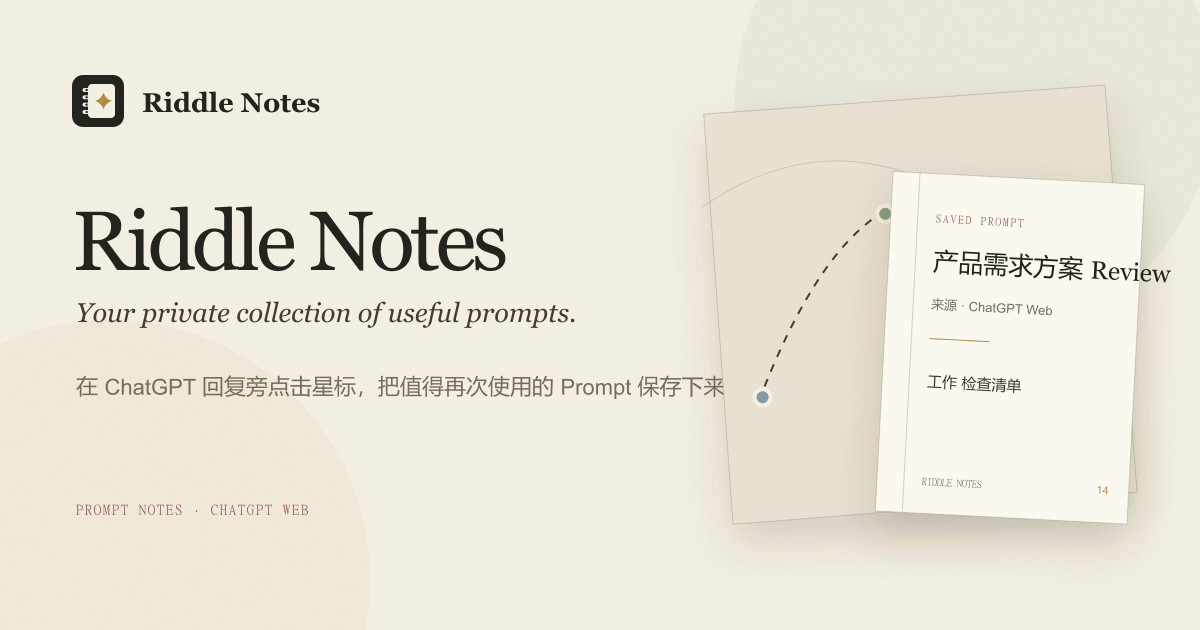
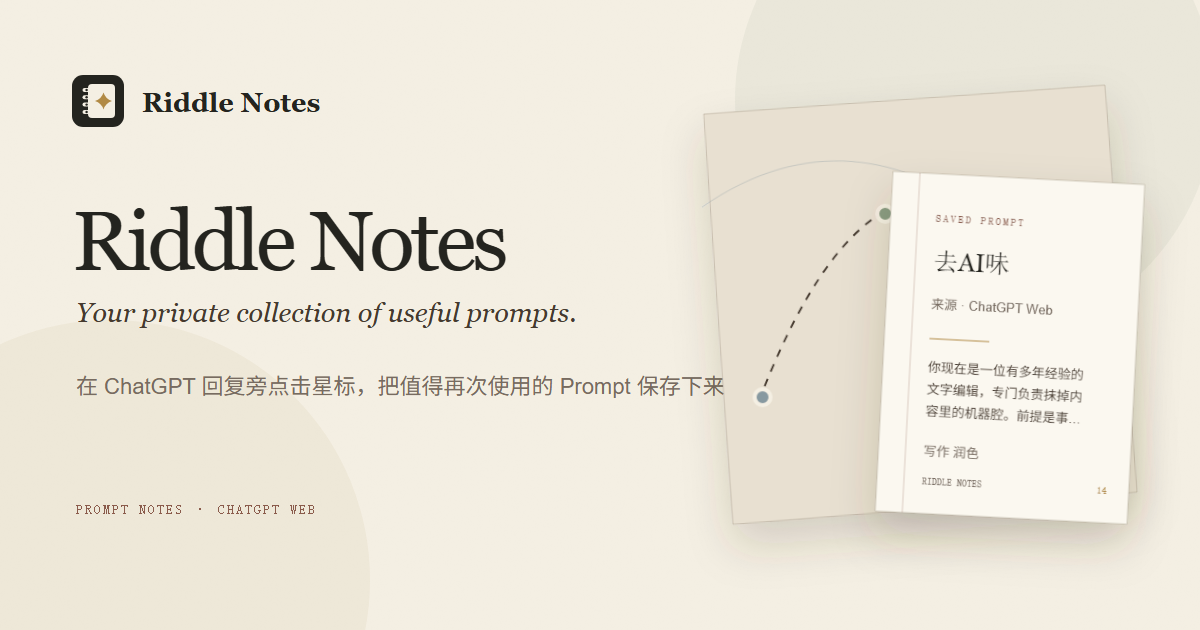
feat(website): use the demo prompt in the hero and the share image
Replace the product-review demo text with the "remove AI flavor"
prompt. Text that does not fit is cut with an ellipsis (line-clamp),
the same way the extension cuts titles and descriptions when it saves
a prompt.

- hero: the reply card shows 2 lines and the note shows 6 lines, so the
  ink path still starts at the star
- og-image: redraw the saved-prompt card with the new text and render
  the 1200x630 PNG again

diff --git a/website/src/components/Hero.tsx b/website/src/components/Hero.tsx
@@ -35,7 +35,12 @@ const STAR_PATH = 'M12 2l3.09 6.26L22 9.27l-5 4.87 1.18 6.88L12 17.77l-6.18 3.25
 /** 墨迹路径:从回复卡的星标出发,经过地图,从手札左缘下方进入手札 */
 const INK_PATH = 'M154 284C154 346 226 382 292 368S352 340 392 330'
 
-const SAVED_EXCERPT = '检查目标用户、核心场景、范围边界、依赖风险和验收标准，并给出修改建议。'
+/**
+ * 示意图里演示用的 Prompt 原文。放不下的部分由 hero.css 的 line-clamp 用省略号截断,
+ * 与扩展真实收藏时"标题取前 50 字、描述取前 200 字,多出来的用 ... 代替"的行为一致。
+ */
+const DEMO_PROMPT =
+  '你现在是一位有多年经验的文字编辑，专门负责抹掉内容里的机器腔。前提是事实、观点和关键信息一个都不许改，在此基础上把整篇重新捋一遍。 删掉那种开头很正确、看完啥也没说的空话，砍掉硬凑的连接词、排到一半以上的排比，还有结尾硬拔的情绪升华和教科书式的套话。 句子该长就长、该短就短，把停顿、顺序和用词的疏密重新排一下；该补的细节补上，转折自然一点，立场敢说清楚一点。写得不那么完美也没关系，别端着。不准硬塞网络热词，不准假装口语化，不准编我没说过的个人经历，不准加原文没有的事实，更不准换成另一套模板腔。'
 
 function StarIcon({ className }: { className?: string }) {
   return (
@@ -133,7 +138,7 @@ export default function Hero({ version }: HeroProps) {
               ))}
 
               <div className="hero-reply" aria-hidden="true">
-                <p>{SAVED_EXCERPT}</p>
+                <p>{DEMO_PROMPT}</p>
                 <div className="hero-reply__tools">
                   <span className="hero-reply__tool"><Copy size={15} /></span>
                   <span className="hero-reply__tool"><ThumbsUp size={15} /></span>
@@ -162,13 +167,13 @@ export default function Hero({ version }: HeroProps) {
                       <span>NOTE 014</span>
                       <StarIcon className="hero-note__star" />
                     </div>
-                    <p className="hero-note__title" style={{ '--i': 1 } as CSSProperties}>产品需求方案 Review</p>
+                    <p className="hero-note__title" style={{ '--i': 1 } as CSSProperties}>去AI味</p>
                     <p className="hero-note__source" style={{ '--i': 2 } as CSSProperties}>ChatGPT · chatgpt.com</p>
                     <i className="hero-note__rule" style={{ '--i': 3 } as CSSProperties} />
-                    <p className="hero-note__excerpt" style={{ '--i': 4 } as CSSProperties}>{SAVED_EXCERPT}</p>
+                    <p className="hero-note__excerpt" style={{ '--i': 4 } as CSSProperties}>{DEMO_PROMPT}</p>
                     <div className="hero-note__tags" style={{ '--i': 5 } as CSSProperties}>
-                      <span>产品</span>
-                      <span>评审</span>
+                      <span>写作</span>
+                      <span>润色</span>
                     </div>
                   </div>
                 </div>

diff --git a/website/src/hero.css b/website/src/hero.css
@@ -267,6 +267,11 @@
 }
 
 .hero-reply p {
+  /* 演示 Prompt 很长,只露出两行,其余用省略号。回复卡高度固定,墨迹路径的起点才对得上星标 */
+  display: -webkit-box;
+  -webkit-box-orient: vertical;
+  -webkit-line-clamp: 2;
+  overflow: hidden;
   margin: 0 0 calc(var(--u) * 8);
   padding-left: calc(var(--u) * 10);
   border-left: 2px solid var(--sage);
@@ -498,6 +503,11 @@
 }
 
 .hero-note__excerpt {
+  /* 手札里最多露出六行,其余用省略号 */
+  display: -webkit-box;
+  -webkit-box-orient: vertical;
+  -webkit-line-clamp: 6;
+  overflow: hidden;
   margin: 0 0 1rem;
   font-size: max(0.76rem, calc(var(--u) * 12.5));
   line-height: 1.75;
